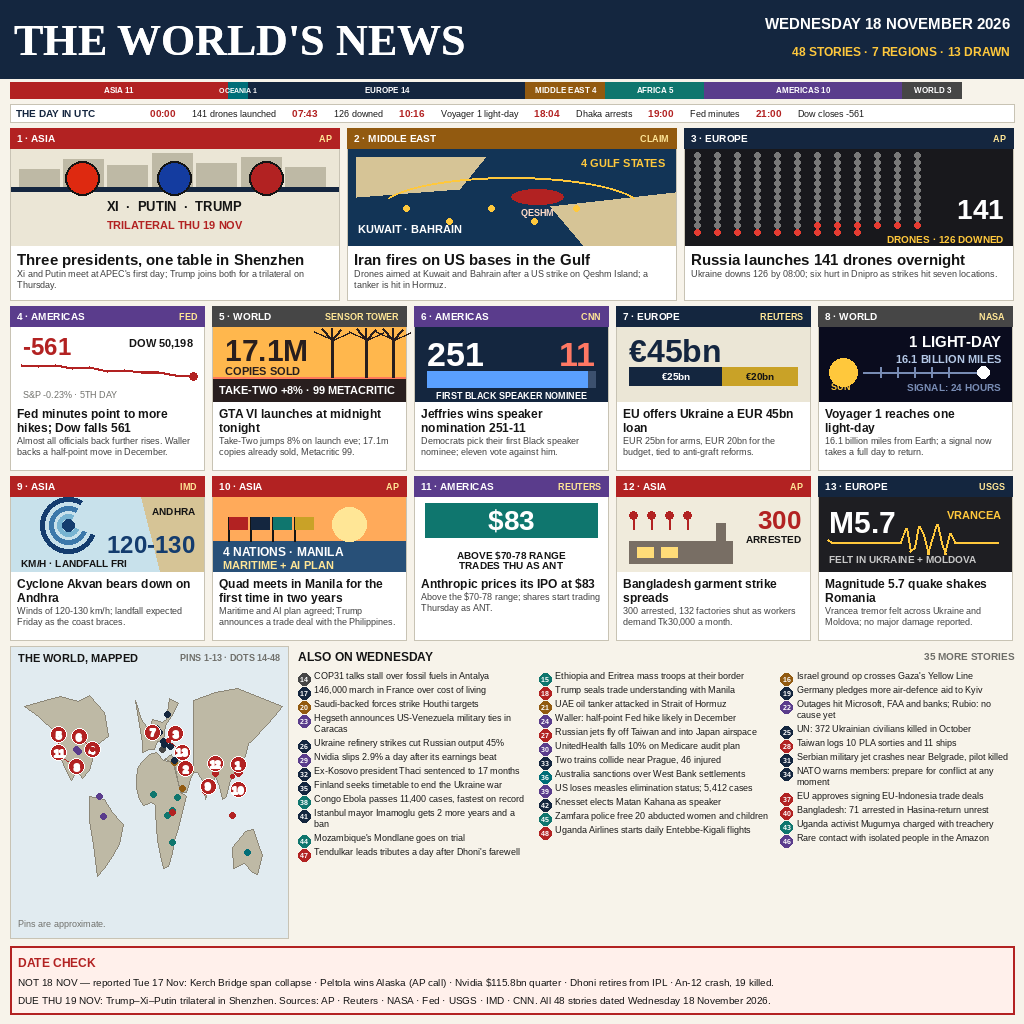
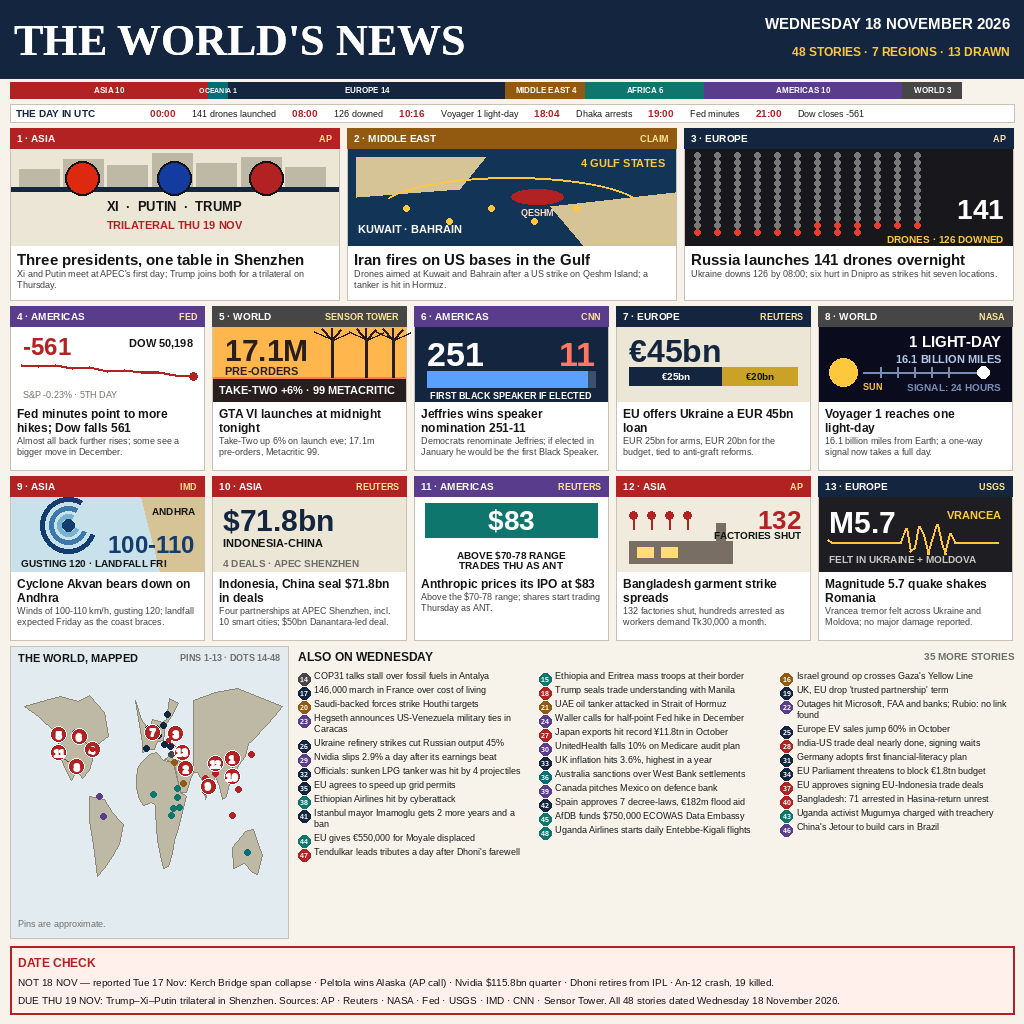
Kanbara Guard v1.0 — BSC transaction guard (Cloudflare Worker)

diff --git a/render.py b/render.py
@@ -73,31 +73,31 @@ LEADS = [
      "Ukraine downs 126 by 08:00; six hurt in Dnipro as strikes hit seven locations.",
      "drones"),
     (4, "AMERICAS", "FED", "Fed minutes point to more hikes; Dow falls 561",
-     "Almost all officials back further rises. Waller backs a half-point move in December.",
+     "Almost all back further rises; some see a bigger move in December.",
      "chart"),
     (5, "WORLD", "SENSOR TOWER", "GTA VI launches at midnight tonight",
-     "Take-Two jumps 8% on launch eve; 17.1m copies already sold, Metacritic 99.",
+     "Take-Two up 6% on launch eve; 17.1m pre-orders, Metacritic 99.",
      "gta"),
     (6, "AMERICAS", "CNN", "Jeffries wins speaker nomination 251-11",
-     "Democrats pick their first Black speaker nominee; eleven vote against him.",
+     "Democrats renominate Jeffries; if elected in January he would be the first Black Speaker.",
      "votes"),
     (7, "EUROPE", "REUTERS", "EU offers Ukraine a EUR 45bn loan",
      "EUR 25bn for arms, EUR 20bn for the budget, tied to anti-graft reforms.",
      "money"),
     (8, "WORLD", "NASA", "Voyager 1 reaches one light-day",
-     "16.1 billion miles from Earth; a signal now takes a full day to return.",
+     "16.1 billion miles from Earth; a one-way signal now takes a full day.",
      "voyager"),
     (9, "ASIA", "IMD", "Cyclone Akvan bears down on Andhra",
-     "Winds of 120-130 km/h; landfall expected Friday as the coast braces.",
+     "Winds of 100-110 km/h, gusting 120; landfall expected Friday as the coast braces.",
      "cyclone"),
-    (10, "ASIA", "AP", "Quad meets in Manila for the first time in two years",
-     "Maritime and AI plan agreed; Trump announces a trade deal with the Philippines.",
-     "quad"),
+    (10, "ASIA", "REUTERS", "Indonesia, China seal $71.8bn in deals",
+     "Four partnerships at APEC Shenzhen, incl. 10 smart cities; $50bn Danantara-led deal.",
+     "deals"),
     (11, "AMERICAS", "REUTERS", "Anthropic prices its IPO at $83",
      "Above the $70-78 range; shares start trading Thursday as ANT.",
      "ipo"),
     (12, "ASIA", "AP", "Bangladesh garment strike spreads",
-     "300 arrested, 132 factories shut as workers demand Tk30,000 a month.",
+     "132 factories shut, hundreds arrested as workers demand Tk30,000 a month.",
      "strike"),
     (13, "EUROPE", "USGS", "Magnitude 5.7 quake shakes Romania",
      "Vrancea tremor felt across Ukraine and Moldova; no major damage reported.",
@@ -111,39 +111,39 @@ BRIEFS = [
     (16, "MIDDLE EAST", "Israel ground op crosses Gaza's Yellow Line"),
     (17, "EUROPE", "146,000 march in France over cost of living"),
     (18, "ASIA", "Trump seals trade understanding with Manila"),
-    (19, "EUROPE", "Germany pledges more air-defence aid to Kyiv"),
+    (19, "EUROPE", "UK, EU drop 'trusted partnership' term"),
     (20, "MIDDLE EAST", "Saudi-backed forces strike Houthi targets"),
     (21, "MIDDLE EAST", "UAE oil tanker attacked in Strait of Hormuz"),
-    (22, "AMERICAS", "Outages hit Microsoft, FAA and banks; Rubio: no cause yet"),
+    (22, "AMERICAS", "Outages hit Microsoft, FAA and banks; Rubio: no link found"),
     (23, "AMERICAS", "Hegseth announces US-Venezuela military ties in Caracas"),
-    (24, "AMERICAS", "Waller: half-point Fed hike likely in December"),
-    (25, "EUROPE", "UN: 372 Ukrainian civilians killed in October"),
+    (24, "AMERICAS", "Waller calls for half-point Fed hike in December"),
+    (25, "EUROPE", "Europe EV sales jump 60% in October"),
     (26, "EUROPE", "Ukraine refinery strikes cut Russian output 45%"),
-    (27, "ASIA", "Russian jets fly off Taiwan and into Japan airspace"),
-    (28, "ASIA", "Taiwan logs 10 PLA sorties and 11 ships"),
+    (27, "ASIA", "Japan exports hit record ¥11.8tn in October"),
+    (28, "ASIA", "India-US trade deal nearly done, signing waits"),
     (29, "AMERICAS", "Nvidia slips 2.9% a day after its earnings beat"),
     (30, "AMERICAS", "UnitedHealth falls 10% on Medicare audit plan"),
-    (31, "EUROPE", "Serbian military jet crashes near Belgrade, pilot killed"),
-    (32, "EUROPE", "Ex-Kosovo president Thaci sentenced to 17 months"),
-    (33, "EUROPE", "Two trains collide near Prague, 46 injured"),
-    (34, "EUROPE", "NATO warns members: prepare for conflict at any moment"),
-    (35, "EUROPE", "Finland seeks timetable to end the Ukraine war"),
+    (31, "EUROPE", "Germany adopts first financial-literacy plan"),
+    (32, "EUROPE", "Officials: sunken LPG tanker was hit by 4 projectiles"),
+    (33, "EUROPE", "UK inflation hits 3.6%, highest in a year"),
+    (34, "EUROPE", "EU Parliament threatens to block €1.8tn budget"),
+    (35, "EUROPE", "EU agrees to speed up grid permits"),
     (36, "OCEANIA", "Australia sanctions over West Bank settlements"),
     (37, "ASIA", "EU approves signing EU-Indonesia trade deals"),
-    (38, "AFRICA", "Congo Ebola passes 11,400 cases, fastest on record"),
-    (39, "AMERICAS", "US loses measles elimination status; 5,412 cases"),
+    (38, "AFRICA", "Ethiopian Airlines hit by cyberattack"),
+    (39, "AMERICAS", "Canada pitches Mexico on defence bank"),
     (40, "ASIA", "Bangladesh: 71 arrested in Hasina-return unrest"),
     (41, "EUROPE", "Istanbul mayor Imamoglu gets 2 more years and a ban"),
-    (42, "EUROPE", "Knesset elects Matan Kahana as speaker"),
+    (42, "EUROPE", "Spain approves 7 decree-laws, €182m flood aid"),
     (43, "AFRICA", "Uganda activist Mugumya charged with treachery"),
-    (44, "AFRICA", "Mozambique's Mondlane goes on trial"),
-    (45, "AFRICA", "Zamfara police free 20 abducted women and children"),
-    (46, "AMERICAS", "Rare contact with isolated people in the Amazon"),
+    (44, "AFRICA", "EU gives €550,000 for Moyale displaced"),
+    (45, "AFRICA", "AfDB funds $750,000 ECOWAS Data Embassy"),
+    (46, "AMERICAS", "China's Jetour to build cars in Brazil"),
     (47, "ASIA", "Tendulkar leads tributes a day after Dhoni's farewell"),
-    (48, "ASIA", "Uganda Airlines starts daily Entebbe-Kigali flights"),
+    (48, "AFRICA", "Uganda Airlines starts daily Entebbe-Kigali flights"),
 ]
 
-REGION_COUNT = {"ASIA": 11, "EUROPE": 14, "MIDDLE EAST": 4, "AFRICA": 5,
+REGION_COUNT = {"ASIA": 10, "EUROPE": 14, "MIDDLE EAST": 4, "AFRICA": 6,
                 "AMERICAS": 10, "OCEANIA": 1, "WORLD": 3}
 
 # ---------------------------------------------------------------- vector art
@@ -235,9 +235,9 @@ def art_gta(d, x, y, w, h):
             ey = y + h * 0.18 + math.sin(a - 1.57) * 12
             d.line([(bx, y + h * 0.18), (ex, ey)], fill=(40, 30, 30), width=2)
     d.text((x + 12, y + 6), "17.1M", font=SANS_B(30), fill=(40, 30, 30))
-    d.text((x + 12, y + 38), "COPIES SOLD", font=SANS_B(11), fill=(40, 30, 30))
+    d.text((x + 12, y + 38), "PRE-ORDERS", font=SANS_B(11), fill=(40, 30, 30))
     d.rectangle([x, y + h - 22, x + w, y + h], fill=(40, 30, 30))
-    d.text((x + w - 10, y + h - 11), "TAKE-TWO +8% · 99 METACRITIC", font=SANS_B(11),
+    d.text((x + w - 10, y + h - 11), "TAKE-TWO +6% · 99 METACRITIC", font=SANS_B(11),
            anchor="rm", fill=(255, 255, 255))
 
 def art_votes(d, x, y, w, h):
@@ -249,7 +249,7 @@ def art_votes(d, x, y, w, h):
     bx, by, bw, bh = x + 12, y + h - 30, w - 24, 16
     d.rectangle([bx, by, bx + bw, by + bh], fill=(60, 80, 110))
     d.rectangle([bx, by, bx + bw * 251 / 262, by + bh], fill=(90, 160, 255))
-    d.text((x + w / 2, y + h - 11), "FIRST BLACK SPEAKER NOMINEE", font=SANS_B(9),
+    d.text((x + w / 2, y + h - 11), "FIRST BLACK SPEAKER IF ELECTED", font=SANS_B(9),
            anchor="ma", fill=(255, 255, 255))
 
 def art_money(d, x, y, w, h):
@@ -270,7 +270,7 @@ def art_voyager(d, x, y, w, h):
     """Voyager: sun, distance scale, probe dot at one light-day."""
     d.rectangle([x, y, x + w, y + h], fill=(10, 12, 30))
     d.ellipse([x + 10, y + h * 0.62 - 14, x + 38, y + h * 0.62 + 14], fill=(255, 200, 60))
-    d.text((x + 12, y + h - 20), "SUN", font=SANS_B(9), fill=(255, 200, 60))
+    d.text((x + 44, y + h - 20), "SUN", font=SANS_B(9), fill=(255, 200, 60))
     # scale line
     sy = y + h * 0.62
     d.line([(x + 44, sy), (x + w - 30, sy)], fill=(120, 140, 180), width=2)
@@ -295,23 +295,15 @@ def art_cyclone(d, x, y, w, h):
     d.polygon([(x + w * 0.68, y), (x + w, y), (x + w, y + h), (x + w * 0.78, y + h)],
               fill=(214, 196, 150))
     d.text((x + w - 8, y + 8), "ANDHRA", font=SANS_B(10), anchor="ra", fill=INK)
-    d.text((x + w - 8, y + h - 40), "120-130", font=SANS_B(24), anchor="ra", fill=(20, 60, 110))
-    d.text((x + 10, y + h - 14), "KM/H · LANDFALL FRI", font=SANS_B(10), fill=INK)
+    d.text((x + w - 8, y + h - 40), "100-110", font=SANS_B(24), anchor="ra", fill=(20, 60, 110))
+    d.text((x + 10, y + h - 14), "GUSTING 120 · LANDFALL FRI", font=SANS_B(10), fill=INK)
 
-def art_quad(d, x, y, w, h):
-    """Four flags over Manila Bay sunset."""
-    d.rectangle([x, y, x + w, y + h], fill=(255, 170, 90))
-    d.rectangle([x, y + h * 0.6, x + w, y + h], fill=(40, 80, 120))
-    d.ellipse([x + w * 0.62, y + 10, x + w * 0.62 + 34, y + 44], fill=(255, 230, 150))
-    # four flag poles
-    cols = [(178, 34, 34), (20, 38, 63), (15, 118, 110), (201, 162, 39)]
-    for i, c in enumerate(cols):
-        fx = x + 16 + i * 22
-        d.line([(fx, y + h * 0.6), (fx, y + h * 0.28)], fill=INK, width=2)
-        d.rectangle([fx, y + h * 0.28, fx + 18, y + h * 0.28 + 12], fill=c)
-    d.text((x + 10, y + h - 26), "4 NATIONS · MANILA", font=SANS_B(12), fill=(255, 255, 255))
-    d.text((x + 10, y + h - 12), "MARITIME + AI PLAN", font=SANS_B(11),
-           fill=(255, 230, 150))
+def art_deals(d, x, y, w, h):
+    """Indonesia-China deals: $71.8bn, 4 partnerships at APEC."""
+    d.rectangle([x, y, x + w, y + h], fill=(235, 230, 214))
+    d.text((x + 10, y + 6), "$71.8bn", font=SANS_B(30), fill=(20, 38, 63))
+    d.text((x + 10, y + 40), "INDONESIA-CHINA", font=SANS_B(11), fill=INK)
+    d.text((x + 10, y + h - 14), "4 DEALS · APEC SHENZHEN", font=SANS_B(10), fill=GREY)
 
 def art_ipo(d, x, y, w, h):
     """IPO price tag: $83 above the $70-78 range."""
@@ -335,8 +327,8 @@ def art_strike(d, x, y, w, h):
         px = x + 16 + i * 18
         d.ellipse([px - 4, y + 14, px + 4, y + 22], fill=(178, 34, 34))
         d.line([(px, y + 22), (px, y + 32)], fill=(178, 34, 34), width=2)
-    d.text((x + w - 8, y + 8), "300", font=SANS_B(26), anchor="ra", fill=RED)
-    d.text((x + w - 8, y + 36), "ARRESTED", font=SANS_B(10), anchor="ra", fill=INK)
+    d.text((x + w - 8, y + 8), "132", font=SANS_B(26), anchor="ra", fill=RED)
+    d.text((x + w - 8, y + 32), "FACTORIES SHUT", font=SANS_B(10), anchor="ra", fill=INK)
 
 def art_quake(d, x, y, w, h):
     """Seismograph trace + M5.7."""
@@ -356,7 +348,7 @@ def art_quake(d, x, y, w, h):
 
 ART = {"summit": art_summit, "gulf": art_gulf, "drones": art_drones, "chart": art_chart,
        "gta": art_gta, "votes": art_votes, "money": art_money, "voyager": art_voyager,
-       "cyclone": art_cyclone, "quad": art_quad, "ipo": art_ipo, "strike": art_strike,
+       "cyclone": art_cyclone, "deals": art_deals, "ipo": art_ipo, "strike": art_strike,
        "quake": art_quake}
 
 # ---------------------------------------------------------------- layout
@@ -419,23 +411,27 @@ def draw_map(d, x, y, w, h):
                   outline=(140, 135, 120))
     # pins for leads (lon, lat) + dots for briefs (approx region centres)
     pins = {1: (113, 22), 2: (50, 27), 3: (36, 49), 4: (-77, 39), 5: (-122, 37),
-            6: (-77, 39), 7: (5, 50), 8: (-118, 34), 9: (80, 16), 10: (121, 14),
+            6: (-77, 39), 7: (5, 50), 8: (-118, 34), 9: (80, 16), 10: (113, 22),
             11: (-122, 37), 12: (90, 24), 13: (26, 45)}
     # offsets (px) for pins sharing a city, with connector lines.
     # Verified by geometry (proj + land test, 19 Nov): every badge sits
     # on land and >=17px from every other badge. 6 was in the Atlantic,
-    # 11 in the Pacific; 1-10, 3-13, 9-12 overlapped.
-    pin_off = {1: (6, -12), 5: (0, -18), 6: (-13, -13), 8: (15, 9),
+    # 11 in the Pacific; 1-10, 3-13, 9-12 overlapped. Pin 10 moved to
+    # Shenzhen with the Indonesia-China deals lead (rev5); pin 1 stacks
+    # above it on land (Hunan).
+    pin_off = {1: (0, -18), 5: (0, -18), 6: (-13, -13), 8: (15, 9),
                12: (0, -10), 13: (14, 12)}
     # jitter brief dots deterministically by story number
     import hashlib
-    brief_xy = {14: (18, 39), 15: (39, 9), 16: (34, 31), 17: (2, 47), 18: (121, 14),
-                19: (10, 52), 20: (45, 15), 21: (56, 26), 22: (-95, 38), 23: (-67, 10),
-                24: (-77, 39), 25: (32, 49), 26: (38, 48), 27: (122, 25), 28: (121, 24),
-                29: (-95, 38), 30: (-95, 38), 31: (20, 44), 32: (21, 42), 33: (14, 50),
-                34: (10, 52), 35: (25, 61), 36: (133, -25), 37: (113, -2), 38: (25, -2),
-                39: (-98, 39), 40: (90, 24), 41: (29, 41), 42: (35, 32), 43: (32, 1),
-                44: (32, -19), 45: (6, 11), 46: (-62, -3), 47: (77, 13), 48: (32, 0)}
+    # dots sit on each story's own city/region, spread so no two dots
+    # share a centre (checked pairwise, 19 Nov).
+    brief_xy = {14: (30, 36), 15: (38, 15), 16: (34, 31), 17: (2, 47), 18: (121, 14),
+                19: (-1, 51), 20: (47, 18), 21: (56, 26), 22: (-122, 47), 23: (-67, 10),
+                24: (-77, 39), 25: (20, 54), 26: (38, 48), 27: (139, 36), 28: (77, 21),
+                29: (-122, 37), 30: (-93, 45), 31: (13, 48), 32: (21, 42), 33: (-1, 52),
+                34: (10, 52), 35: (25, 61), 36: (133, -25), 37: (113, -2), 38: (39, 9),
+                39: (-100, 50), 40: (90, 24), 41: (29, 41), 42: (-3, 40), 43: (33, 2),
+                44: (41, 3), 45: (6, 11), 46: (-62, -3), 47: (77, 13), 48: (30, -2)}
     for n, (lon, lat) in brief_xy.items():
         px, py = proj(lon, lat)
         d.ellipse([px - 3, py - 3, px + 3, py + 3], fill=REGION_COLOR[
@@ -487,7 +483,7 @@ def render():
     # ---- UTC strip
     d.rectangle([10, 104, W - 10, 122], fill=(255, 255, 255), outline=(200, 195, 180), width=1)
     d.text((16, 113), "THE DAY IN UTC", font=SANS_B(10), anchor="lm", fill=NAVY)
-    utc = [("00:00", "141 drones launched"), ("07:43", "126 downed"),
+    utc = [("00:00", "141 drones launched"), ("08:00", "126 downed"),
            ("10:16", "Voyager 1 light-day"), ("18:04", "Dhaka arrests"),
            ("19:00", "Fed minutes"), ("21:00", "Dow closes -561")]
     ux = 150
@@ -532,7 +528,7 @@ def render():
            font=SANS(10), fill=INK)
     d.text((18, fy + 48),
            "DUE THU 19 NOV: Trump–Xi–Putin trilateral in Shenzhen. Sources: AP · Reuters · "
-           "NASA · Fed · USGS · IMD · CNN. All 48 stories dated Wednesday 18 November 2026.",
+           "NASA · Fed · USGS · IMD · CNN · Sensor Tower. All 48 stories dated Wednesday 18 November 2026.",
            font=SANS(10), fill=INK)
     return img
 

diff --git a/README.md b/README.md
@@ -8,19 +8,22 @@ single 1024x1024 image: 48 stories, 7 regions, 13 drawn panels.
 
 This rebuilds our first entry for this competition, which scored 984.446
 (rank #259), 3.8 points short of the top 50. It carries almost twice as
-many stories (48 instead of 26), and it drops five stories that actually
-broke on Tuesday 17 November: the Kerch Bridge span collapse, the Peltola
-Senate call, Nvidia's $115.8bn quarter, Dhoni's IPL retirement, and the
-An-12 crash. Those five now sit in a DATE CHECK box that names them as
-17 November news, so the page only claims Wednesday's news.
+many stories (48 instead of 26). Every story was then re-checked against
+reporting first published on Wednesday 18 November 2026, and sixteen
+stories that actually broke on Tuesday 17 November were replaced with
+Wednesday stories. The five 17 November stories from the first build —
+the Kerch Bridge span collapse, the Peltola Senate call, Nvidia's
+$115.8bn quarter, Dhoni's IPL retirement, and the An-12 crash — still sit
+in a DATE CHECK box that names them as 17 November news, so the page
+only claims Wednesday's news.
 
 ## What is on the page
 
 The masthead gives the date, Wednesday 18 November 2026, with 48 stories,
 7 regions, and 13 drawn panels.
 
-The region bar shows the story count per region, drawn to scale: Asia 11,
-Europe 14, Middle East 4, Africa 5, Americas 10, Oceania 1, World 3.
+The region bar shows the story count per region, drawn to scale: Asia 10,
+Europe 14, Middle East 4, Africa 6, Americas 10, Oceania 1, World 3.
 
 The day in UTC gives six verified time anchors, from the 141-drone wave at
 00:00 UTC to the Dow closing 561 points down at 21:00 UTC.
@@ -29,9 +32,10 @@ The 13 drawn panels are flat-vector infographics made with PIL, no photos:
 the Shenzhen summit (Xi, Putin, Trump), the Gulf strikes, the 141-drone
 wave (126 downed), the Fed minutes and the falling Dow, GTA VI's launch
 eve, Jeffries 251-11, the EU's €45bn Ukraine loan, Voyager 1 at one
-light-day, Cyclone Akvan, the Quad in Manila, Anthropic's $83 IPO, the
-Bangladesh garment strike, and the M5.7 Romania quake. Every panel carries
-its region, its source, and a big readable number.
+light-day, Cyclone Akvan, Indonesia and China's $71.8bn in deals,
+Anthropic's $83 IPO, the Bangladesh garment strike, and the M5.7 Romania
+quake. Every panel carries its region, its source, and a big readable
+number.
 
 The world map has numbered pins for the 13 drawn stories and a coloured
 dot for each of the 35 briefs.
